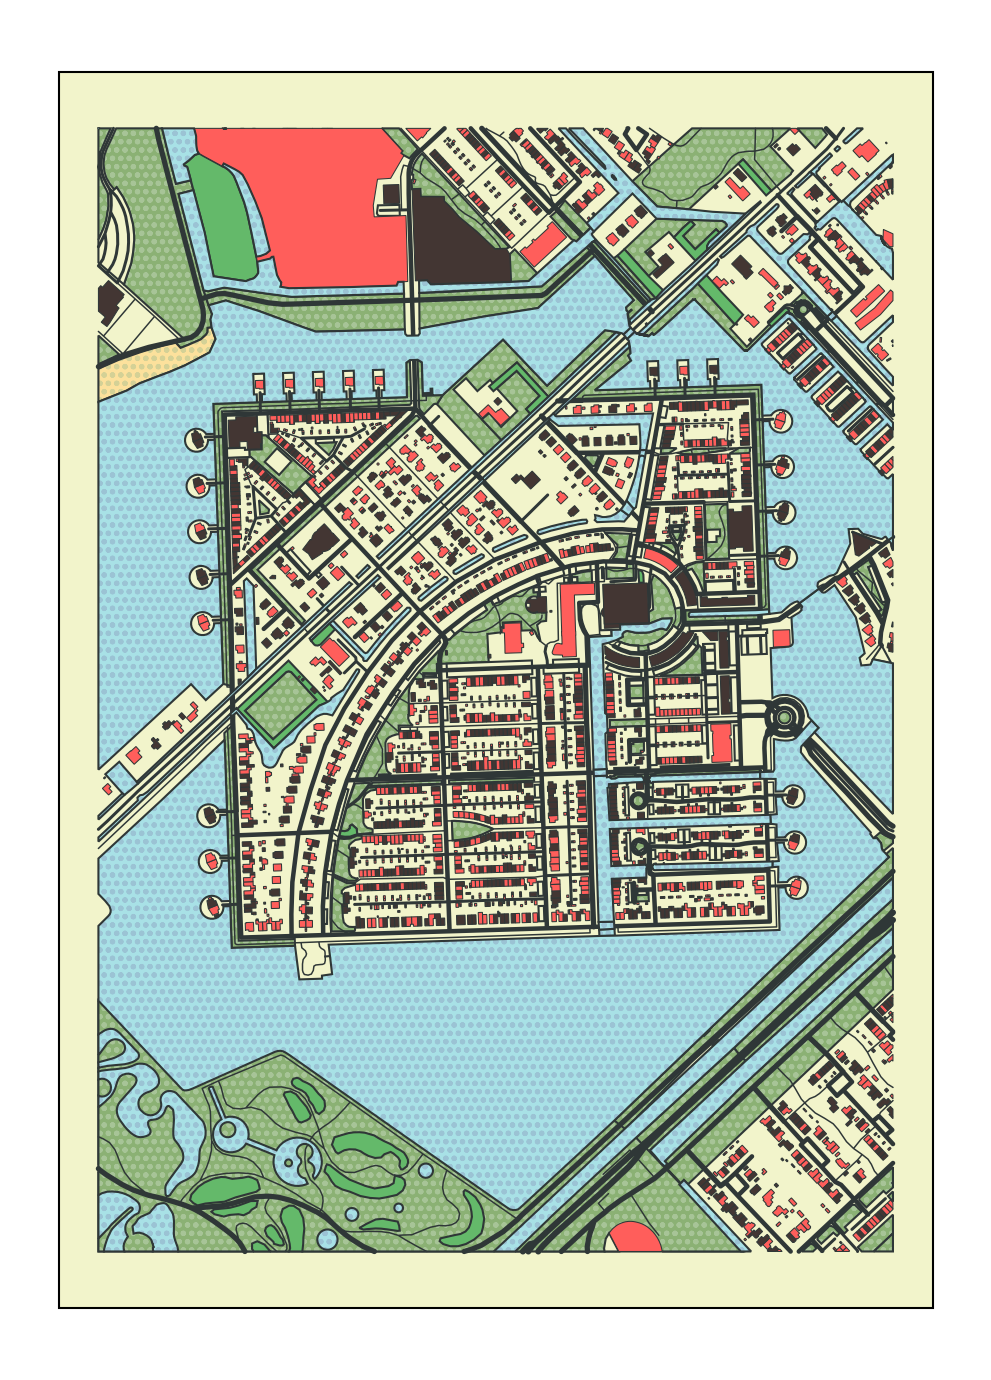
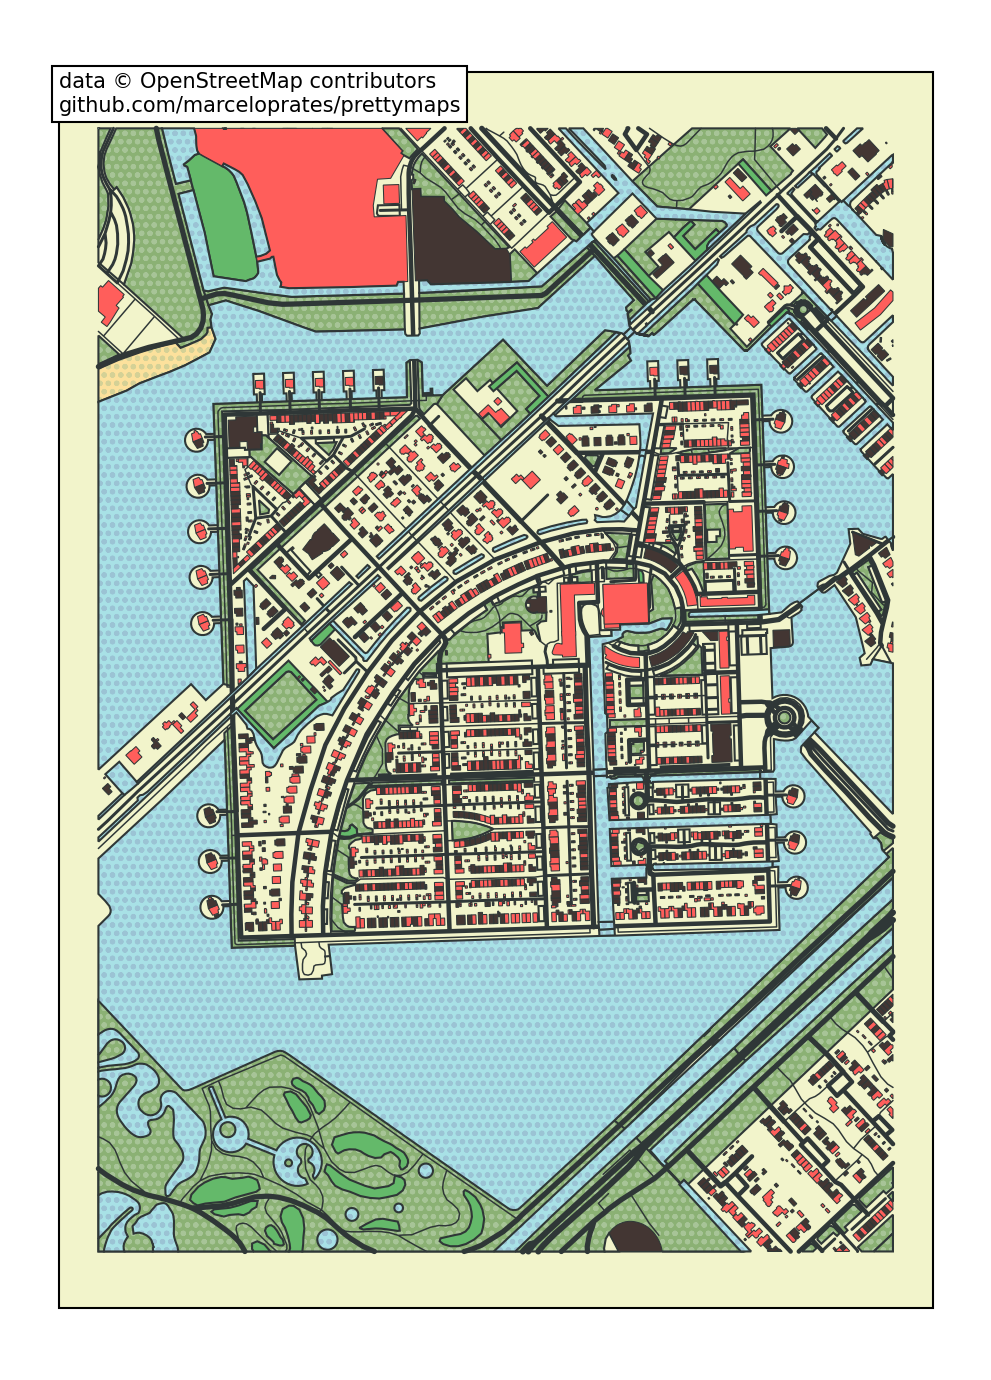
Updated app

diff --git a/prettymaps/draw.py b/prettymaps/draw.py
@@ -888,14 +888,17 @@ def override_preset(
 # =============================================================================
 
 
-def draw_text(params: Dict[str, dict], background: BaseGeometry) -> None:
+def draw_text(
+    ax: matplotlib.axes.Axes, params: Dict[str, Any], background: BaseGeometry
+) -> None:
     """
     Draw text with content and matplotlib style parameters specified by 'params' dictionary.
-    params['text'] should contain the message to be drawn
+    params['text'] should contain the message to be drawn.
 
     Args:
-        params (Dict[str, dict]): matplotlib style parameters for drawing text. params['text'] should contain the message to be drawn.
-        background (BaseGeometry): Background layer
+        ax (matplotlib.axes.Axes): Matplotlib axis object.
+        params (Dict[str, Any]): Matplotlib style parameters for drawing text. params['text'] should contain the message to be drawn.
+        background (BaseGeometry): Background layer.
     """
     # Override default osm_credit dict with provided parameters
     params = override_params(
@@ -923,19 +926,31 @@ def draw_text(params: Dict[str, dict], background: BaseGeometry) -> None:
     x = np.interp([x], [0, 1], [xmin, xmax])[0]
     y = np.interp([y], [0, 1], [ymin, ymax])[0]
 
-    plt.text(x, y, text, **params)
+    ax.text(x, y, text, zorder=1000, **params)
 
 
 @log_execution_time
 def draw_credit(
-    background,
-    credit,
-    mode,
-    multiplot,
-    logging=False,
-):
+    ax: matplotlib.axes.Axes,
+    background: BaseGeometry,
+    credit: Dict[str, Any],
+    mode: str,
+    multiplot: bool,
+    logging: bool = False,
+) -> None:
+    """
+    Draws credit text on the plot.
+
+    Args:
+        ax (matplotlib.axes.Axes): Matplotlib axis object.
+        background (BaseGeometry): Background layer.
+        credit (Dict[str, Any]): Dictionary containing credit text and style parameters.
+        mode (str): Drawing mode. Options: 'matplotlib', 'plotter'.
+        multiplot (bool): Whether the plot is part of a multiplot.
+        logging (bool, optional): Whether to enable logging. Defaults to False.
+    """
     if (mode == "matplotlib") and (credit != False) and (not multiplot):
-        draw_text(credit, background)
+        draw_text(ax, credit, background)
 
 
 # =============================================================================
@@ -1186,7 +1201,7 @@ def plot(
     draw_background(background, ax, style, mode, logging=logging)
 
     # 10. Draw credit message
-    draw_credit(background, credit, mode, multiplot, logging=logging)
+    draw_credit(ax, background, credit, mode, multiplot, logging=logging)
 
     # 11. Draw hillshade
     draw_hillshade(
